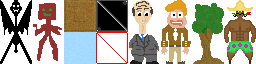
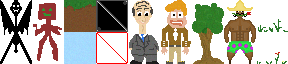
sick grass update 1.2

diff --git a/Tempo/src/tempo/GamePanel.java b/Tempo/src/tempo/GamePanel.java
@@ -20,7 +20,7 @@ public class GamePanel extends JPanel{
     int blockSize = 75;
     
     Spritesheet ss = new Spritesheet();
-    Player player = new Player(blockSize, blockSize * 7, blockSize, blockSize*2, ss.getSprite(128, 0, 32, 64));
+    Player player = new Player(blockSize, blockSize * 7, blockSize, blockSize*2, ss.getSprite(160, 0, 32, 64));
     Player enemy = new Player(100, 420, blockSize, blockSize*2, ss.getSprite(224, 0, 32, 64));
     ArrayList<Block> blocks = new ArrayList<Block>();
     ArrayList<Block> sky = new ArrayList<Block>();
@@ -37,8 +37,15 @@ public class GamePanel extends JPanel{
                 row++;
             }
         }
+        blocks.add(new Block(blockSize * 5, blockSize * 7, blockSize, blockSize*2, ss.getSprite(192, 0, 32, 64), false));
+        blocks.add(new Block(blockSize * 2, blockSize * 7, blockSize, blockSize*2, ss.getSprite(192, 0, 32, 64), false));
+        blocks.add(new Block(blockSize * 7, blockSize * 7, blockSize, blockSize*2, ss.getSprite(192, 0, 32, 64), false));
+        blocks.add(new Block(blockSize * 13, blockSize * 7, blockSize, blockSize*2, ss.getSprite(192, 0, 32, 64), false));
+        blocks.add(new Block(blockSize * 4, blockSize * 3, blockSize, blockSize*2, ss.getSprite(192, 0, 32, 64), false));
+        blocks.add(new Block(blockSize * 10, blockSize * 1, 300, 600, ss.getSprite(192, 0, 32, 64), false));
         collumn = 0;
         for(int i = 0;i<18;i++){
+            blocks.add(new Block(blockSize * collumn, blockSize * 8, blockSize, blockSize, ss.getSprite(256, collumn % 2 == 1?0:32, 32, 32), false));
             blocks.add(new Block(blockSize * collumn, blockSize * 9, blockSize, blockSize, ss.getSprite(64, 0, 32, 32), true));
             blocks.add(new Block(blockSize * collumn++, blockSize * 0, blockSize, blockSize, ss.getSprite(64, 0, 32, 32), true));
         }
@@ -47,12 +54,7 @@ public class GamePanel extends JPanel{
         blocks.add(new Block(blockSize * 8, blockSize * 1, blockSize, blockSize, ss.getSprite(64, 0, 32, 32), true));
         blocks.add(new Block(blockSize * 8, blockSize * 7, blockSize, blockSize, ss.getSprite(64, 0, 32, 32), true));
         
-        blocks.add(new Block(blockSize * 5, blockSize * 7, blockSize, blockSize*2, ss.getSprite(192, 0, 32, 64), false));
-        blocks.add(new Block(blockSize * 2, blockSize * 7, blockSize, blockSize*2, ss.getSprite(192, 0, 32, 64), false));
-        blocks.add(new Block(blockSize * 7, blockSize * 7, blockSize, blockSize*2, ss.getSprite(192, 0, 32, 64), false));
-        blocks.add(new Block(blockSize * 13, blockSize * 7, blockSize, blockSize*2, ss.getSprite(192, 0, 32, 64), false));
-        blocks.add(new Block(blockSize * 4, blockSize * 3, blockSize, blockSize*2, ss.getSprite(192, 0, 32, 64), false));
-        blocks.add(new Block(blockSize * 10, blockSize * 1, 300, 600, ss.getSprite(192, 0, 32, 64), false));
+        
         
         
         
